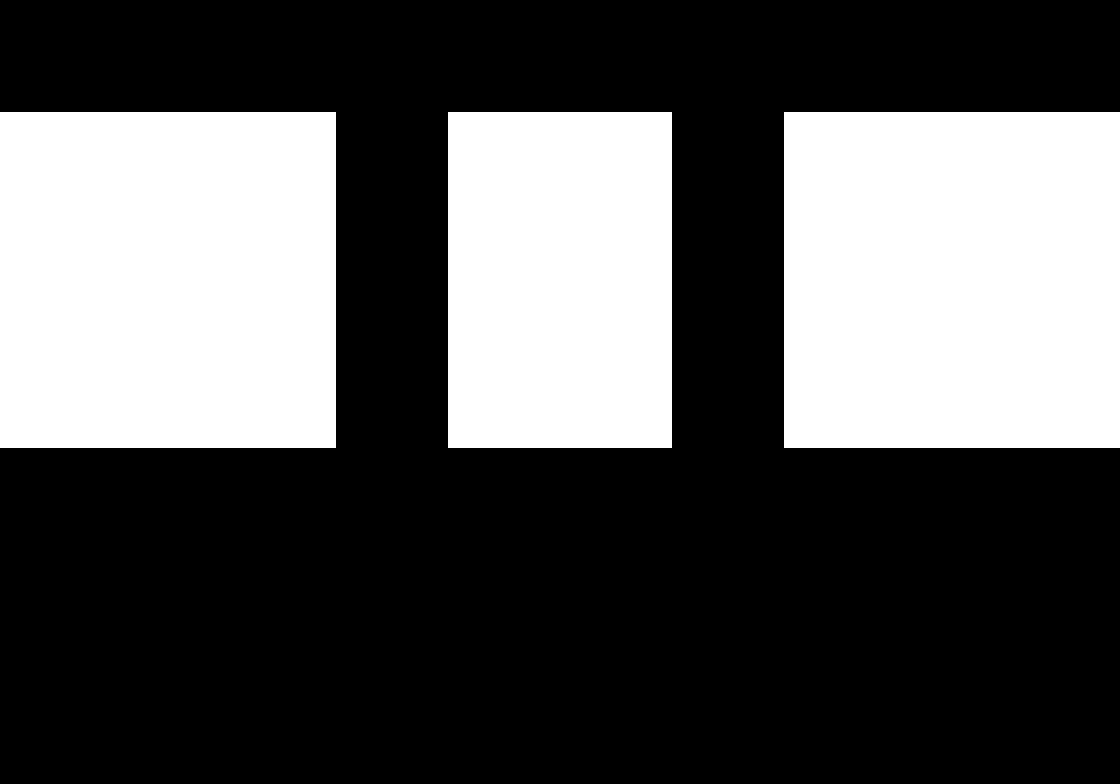
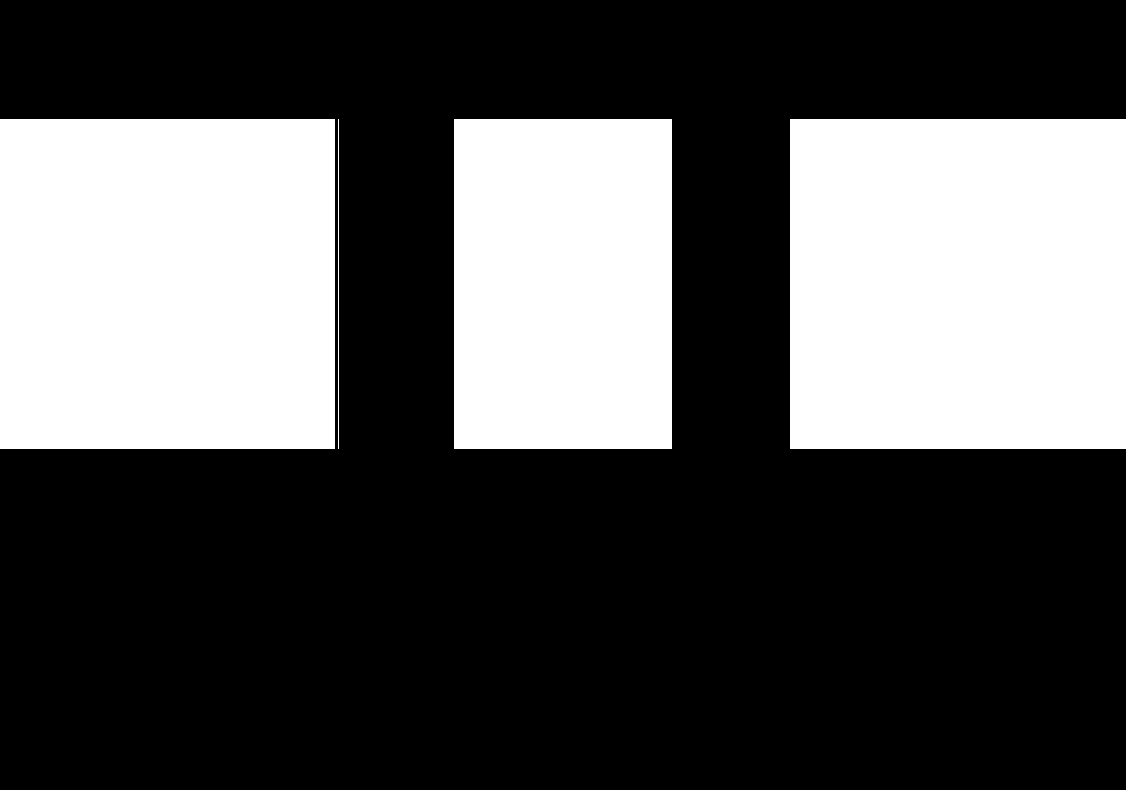
Fixes of masks padding.

diff --git a/Sources/Entities/Element.js b/Sources/Entities/Element.js
@@ -306,7 +306,7 @@ Element = TiledEntity.extend({
     if(!MatrixManager.sharedManager().active()) return false;
     if(MatrixManager.sharedManager().s(this)) return false;
 
-    if(this.special()) return false;
+    if(this.special() == Element.types.box) return false;
 
     if(!this.m_GlowAnimationRunning) {
       this.onUnHover();
